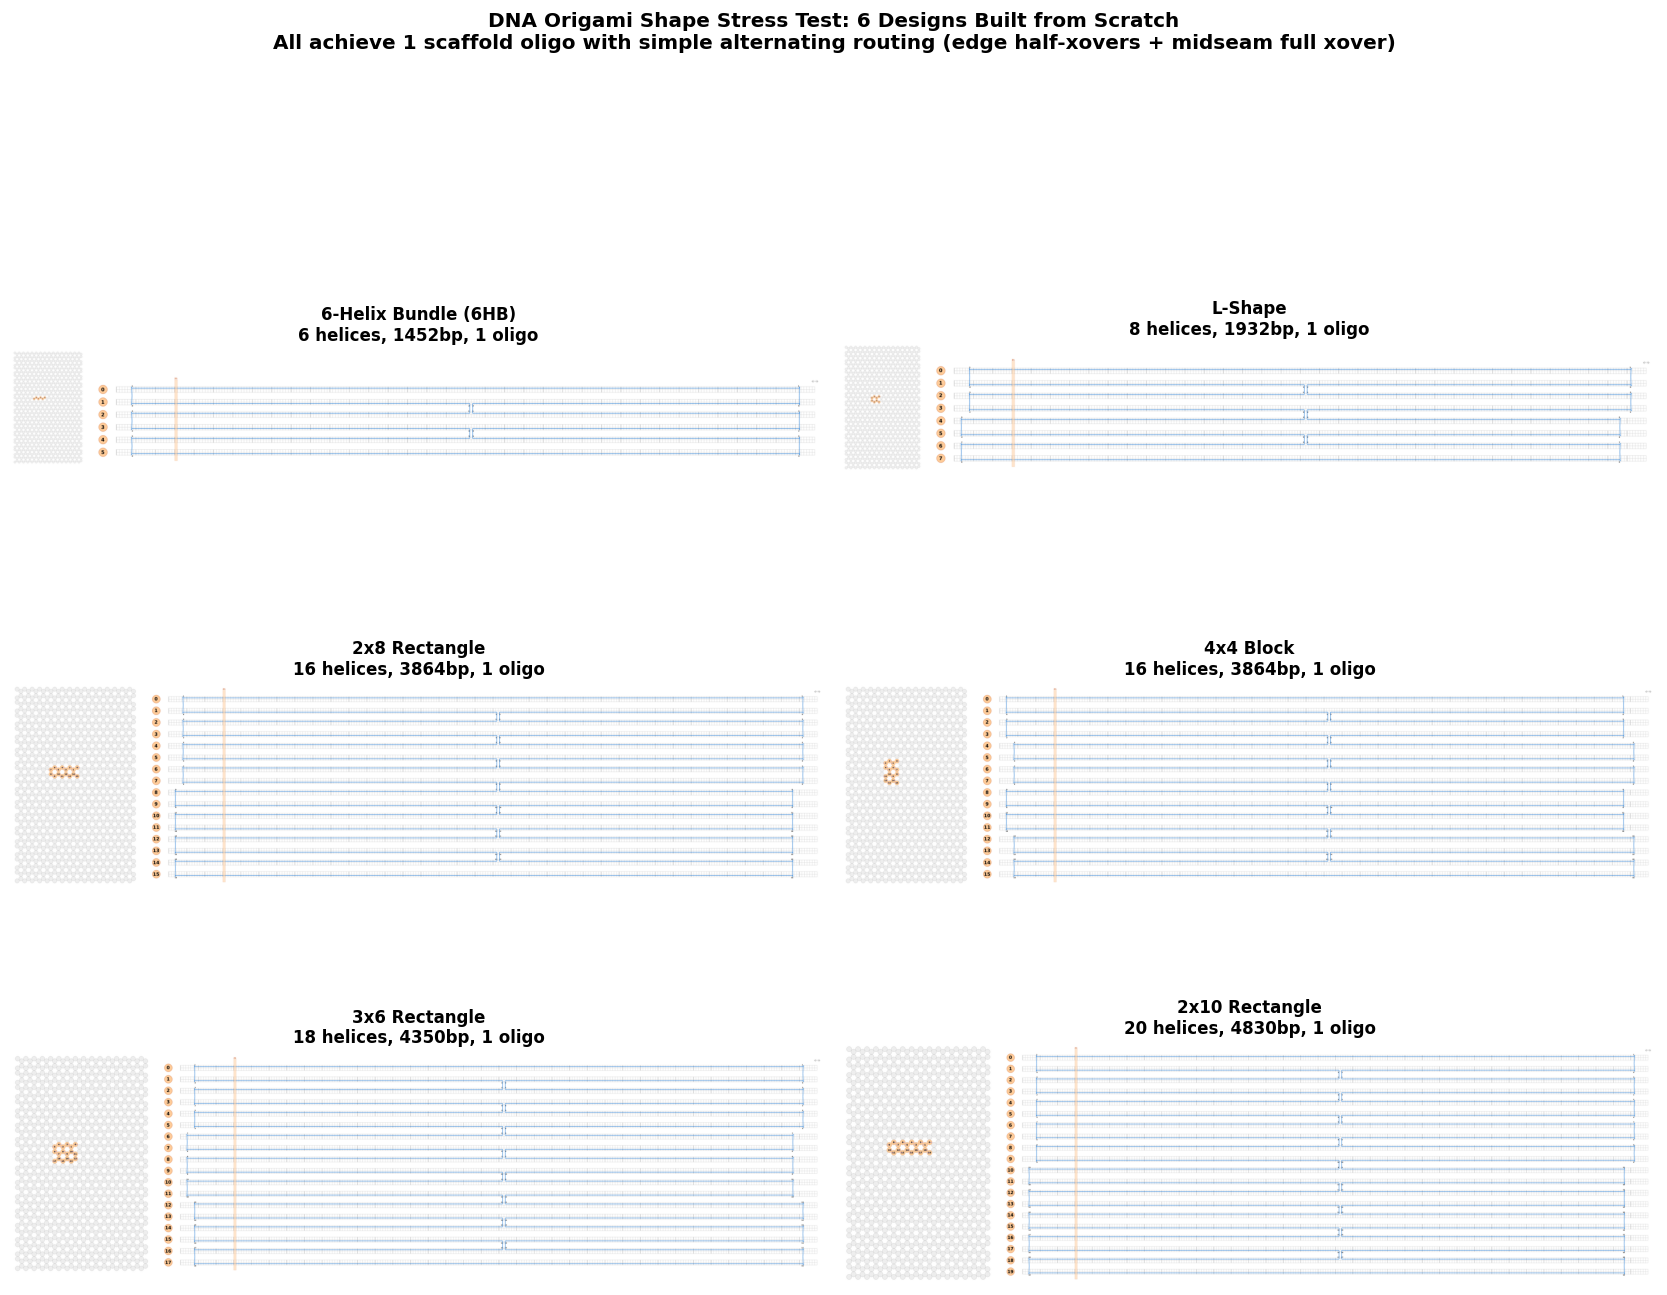
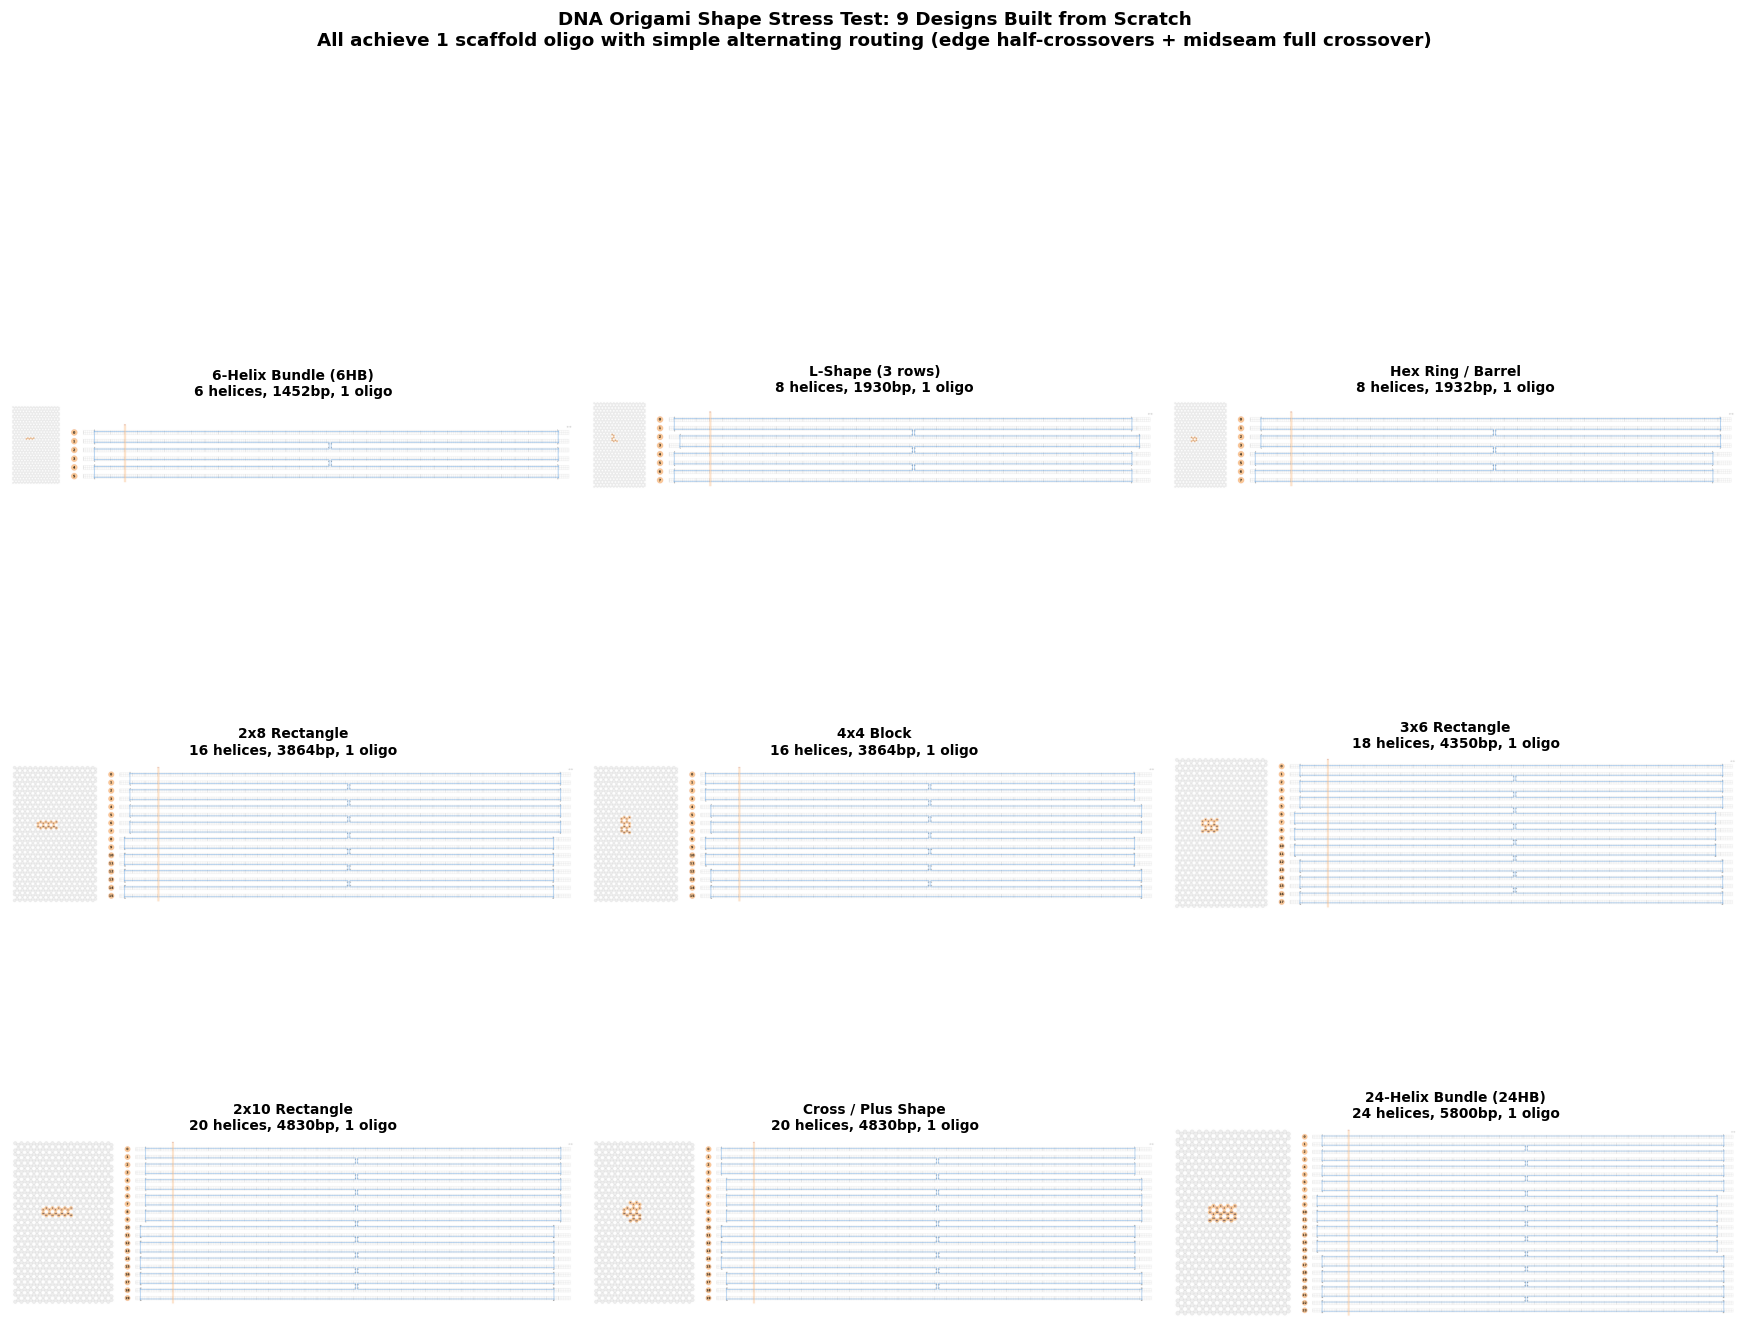
Shape stress test summary: 9 designs, all 1 scaffold oligo
Summary figure showing all 9 shapes built from scratch:
1. 6-Helix Bundle (6h, 1452bp)
2. L-Shape 3-row (8h, 1930bp) — non-convex
3. Hex Ring/Barrel (8h, 1932bp) — ring topology
4. 2x8 Rectangle (16h, 3864bp)
5. 4x4 Block (16h, 3864bp) — 4 rows
6. 3x6 Rectangle (18h, 4350bp) — 3 layers
7. 2x10 Rectangle (20h, 4830bp)
8. Cross/Plus Shape (20h, 4830bp) — branching topology
9. 24-Helix Bundle (24h, 5800bp) — 3x8 block

All achieve 1 scaffold oligo with the simple alternating routing
pattern (edge half-crossovers + midseam full crossover).

Topological insights:
- Shapes with thin arms (1-col wide tips) have degree-1 nodes
  that block Hamiltonian paths. Need 2+ col wide arms.
- Cross-row intra-pairs require parity-aware edge placement
- Triangle cross-sections are fundamentally blocked on honeycomb

diff --git a/tasks/planning.md b/tasks/planning.md
@@ -2,7 +2,7 @@
 
 ## Current Priorities
 
-1. **Shape stress test (in progress)** — 6/10 shapes built successfully (6HB, L-shape, 2x8, 4x4, 3x6, 2x10). 4 failed (triangle, hex ring, plus, 24HB) due to cross-row neighbor topology. Next: fix failures using Hamiltonian path solver.
+1. **Shape stress test (complete)** — 9 shapes built from scratch, all 1 scaffold oligo: 6HB, L-shape (3-row), hex ring (8h), 2x8, 4x4, 3x6, 2x10, cross/plus (20h), 24HB (3x8). Summary figure at `results/stress_test/shapes_summary.png`.
 2. **DNA 32 Track B paper** — Draft revised, figures under PI review. Autobreak sweep + scaffold routing demos complete.
 
 **BLOCKED:** PACE resources exhausted for the month. All new designs stop at cadnano2 JSON + screenshot stage.
